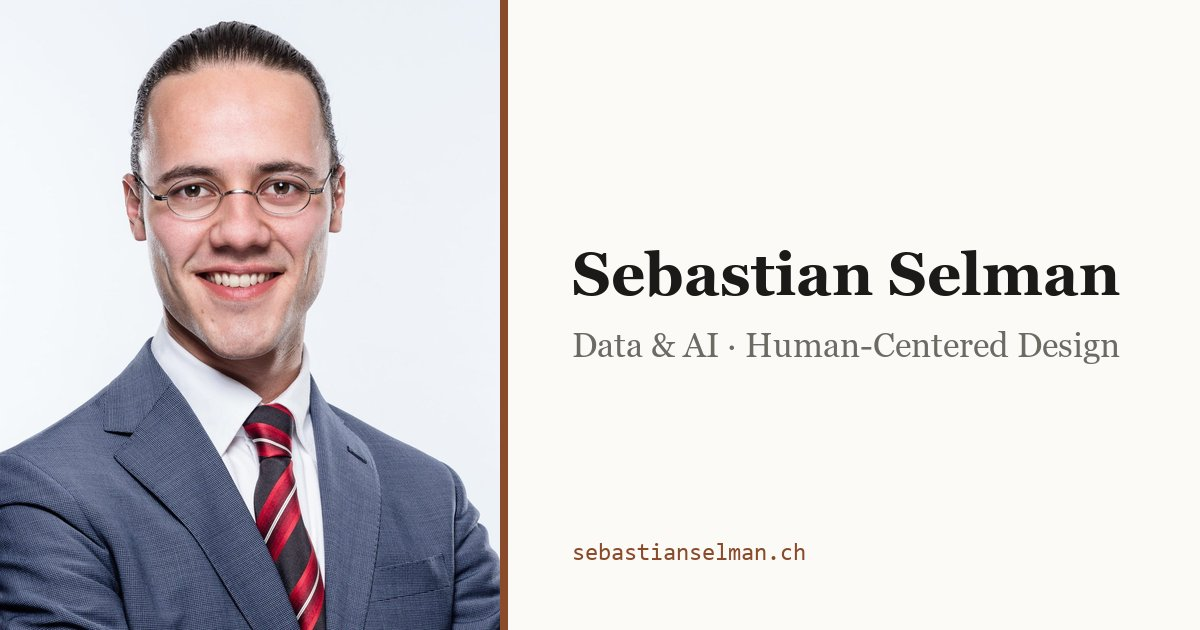
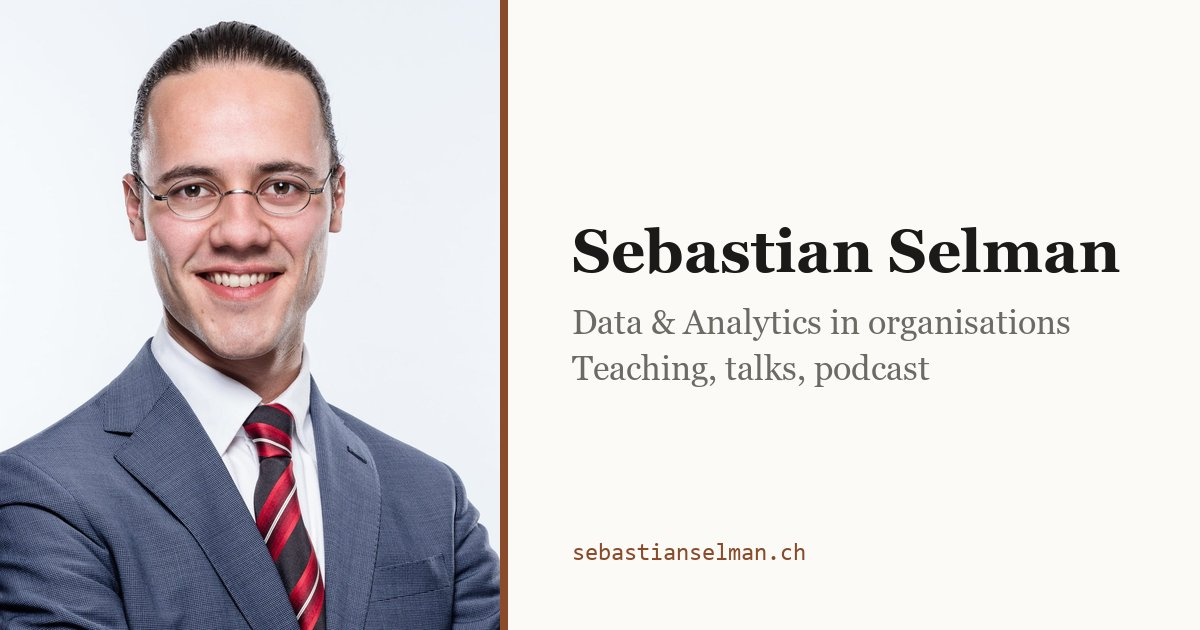
Share card: new role line, broken at its middle dot
The role line no longer fits one line on the card. wrap() now breaks a long
line at its " · " separators first, so no line ends on a dangling dot.

WI #218, Action #1389.

Changed region(s): [[0.4625, 0.3619, 0.9558, 0.6032]]

diff --git a/make-share-assets.py b/make-share-assets.py
@@ -80,6 +80,10 @@ def fit(draw, text, path, start, max_width):
 
 
 def wrap(draw, text, font, max_width):
+    """Lines that fit max_width. A role line too long for one line breaks at
+    its " · " separators first, so no line ends on a dangling middle dot."""
+    if draw.textlength(text, font=font) > max_width and " · " in text:
+        return [l for part in text.split(" · ") for l in wrap(draw, part, font, max_width)]
     words, lines, line = text.split(), [], ""
     for w in words:
         trial = f"{line} {w}".strip()
